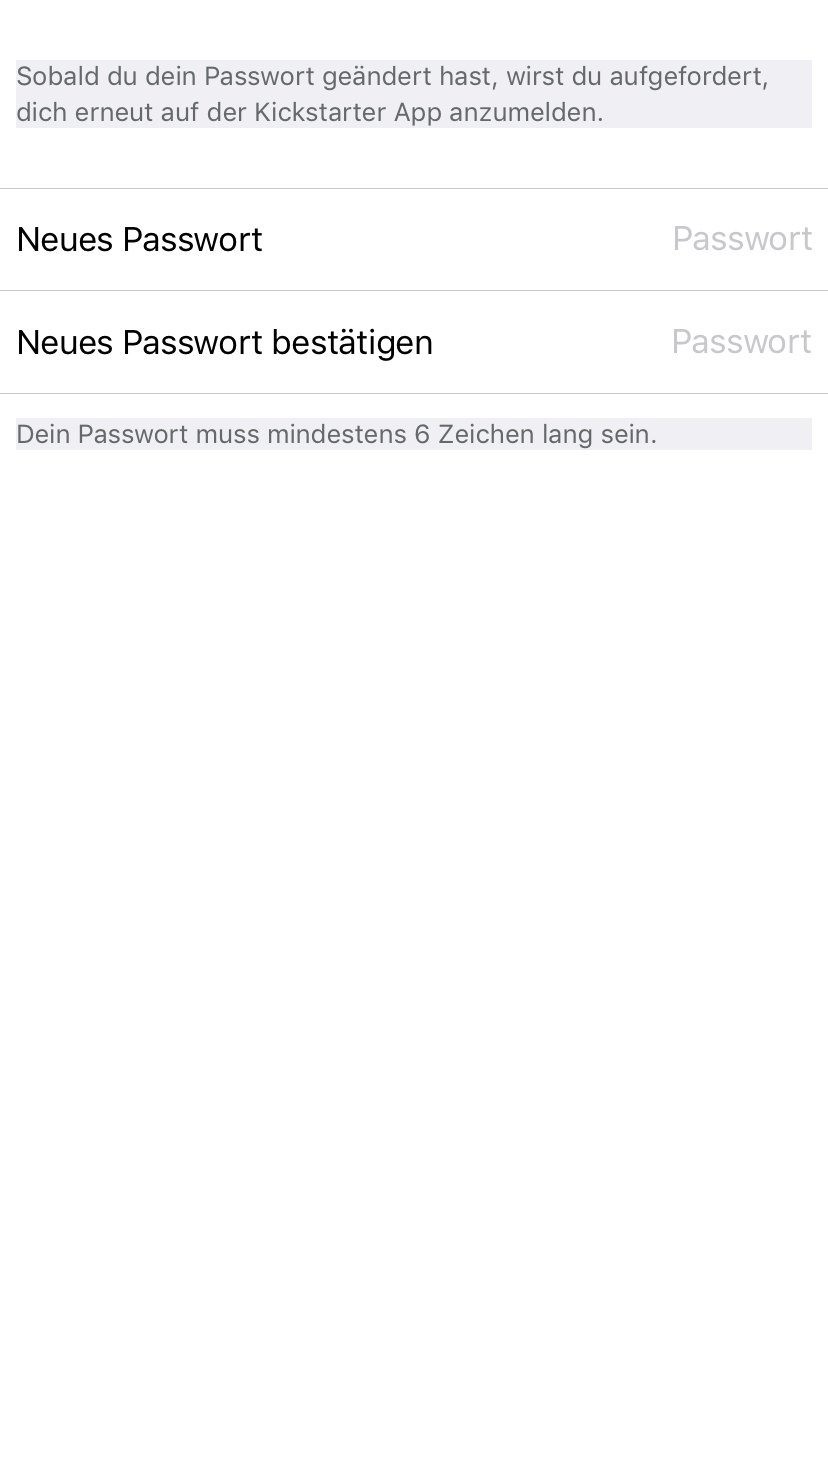
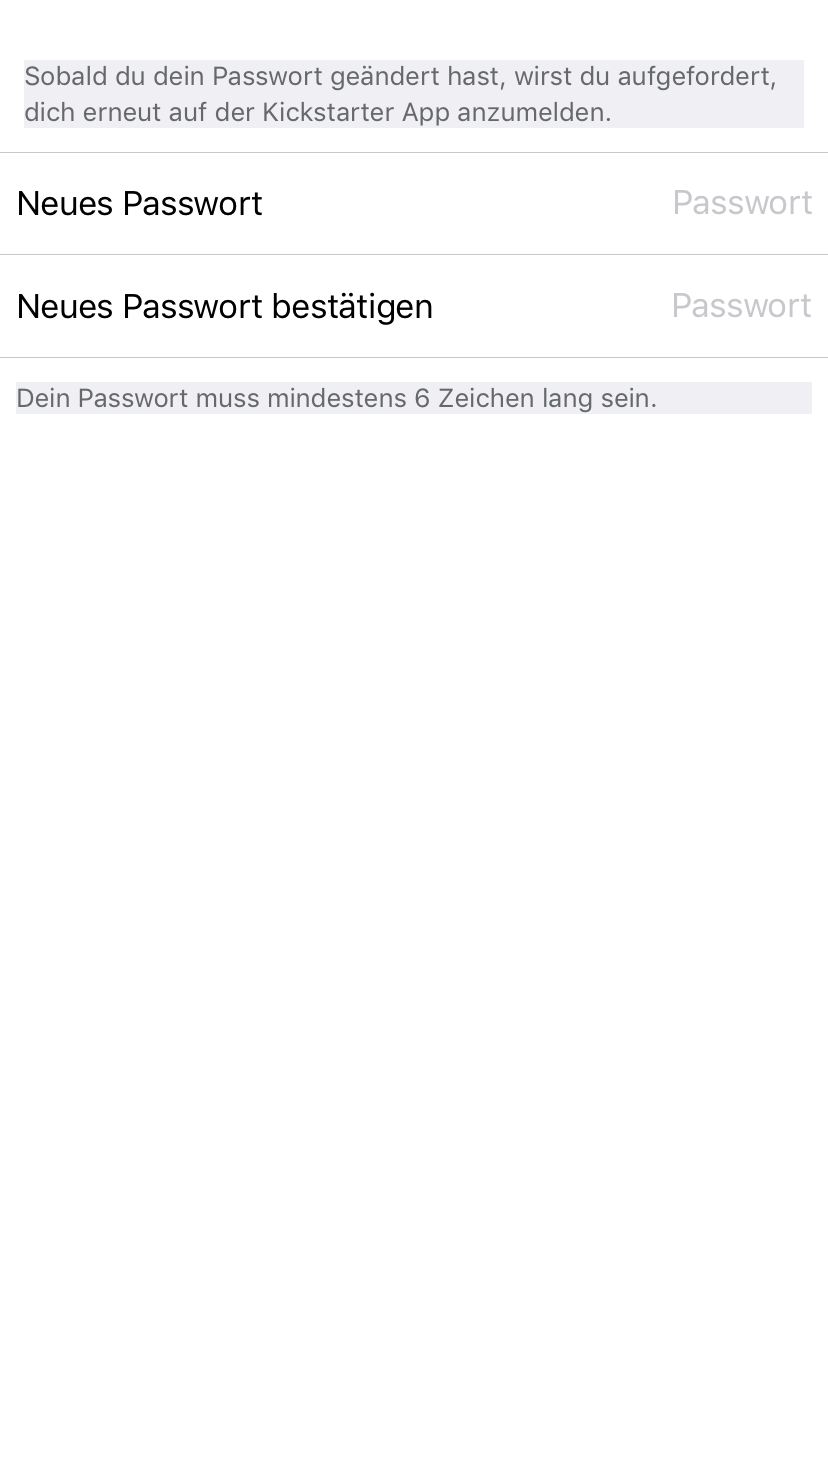
Update header paddings

Changed region(s): [[0.0, 0.125, 0.785, 0.3125], [0.0302, 0.0312, 0.936, 0.0938], [0.8152, 0.125, 0.9964, 0.25]]

diff --git a/Kickstarter-iOS/Views/SettingsGroupedHeaderView.swift b/Kickstarter-iOS/Views/SettingsGroupedHeaderView.swift
@@ -2,8 +2,9 @@ import Prelude
 import UIKit
 
 private struct Padding {
-  static let horizontal: CGFloat = 8
-  static let vertical: CGFloat = 30
+  static let bottom: CGFloat = 12
+  static let leftRight: CGFloat = 12
+  static let top: CGFloat = 30
 }
 
 /*
@@ -33,10 +34,10 @@ final class SettingsGroupedHeaderView: UITableViewHeaderFooterView {
     self.contentView.addSubview(self.label)
 
     NSLayoutConstraint.activate([
-      self.label.topAnchor.constraint( equalTo: self.contentView.topAnchor, constant: Padding.vertical),
-      self.label.rightAnchor.constraint(equalTo: self.contentView.rightAnchor, constant: -Padding.horizontal),
-      self.label.bottomAnchor.constraint(equalTo: self.contentView.bottomAnchor, constant: -Padding.vertical),
-      self.label.leftAnchor.constraint(equalTo: self.contentView.leftAnchor, constant: Padding.horizontal)
+      self.label.topAnchor.constraint( equalTo: self.contentView.topAnchor, constant: Padding.top),
+      self.label.rightAnchor.constraint(equalTo: self.contentView.rightAnchor, constant: -Padding.leftRight),
+      self.label.bottomAnchor.constraint(equalTo: self.contentView.bottomAnchor, constant: -Padding.bottom),
+      self.label.leftAnchor.constraint(equalTo: self.contentView.leftAnchor, constant: Padding.leftRight)
     ])
   }
 
